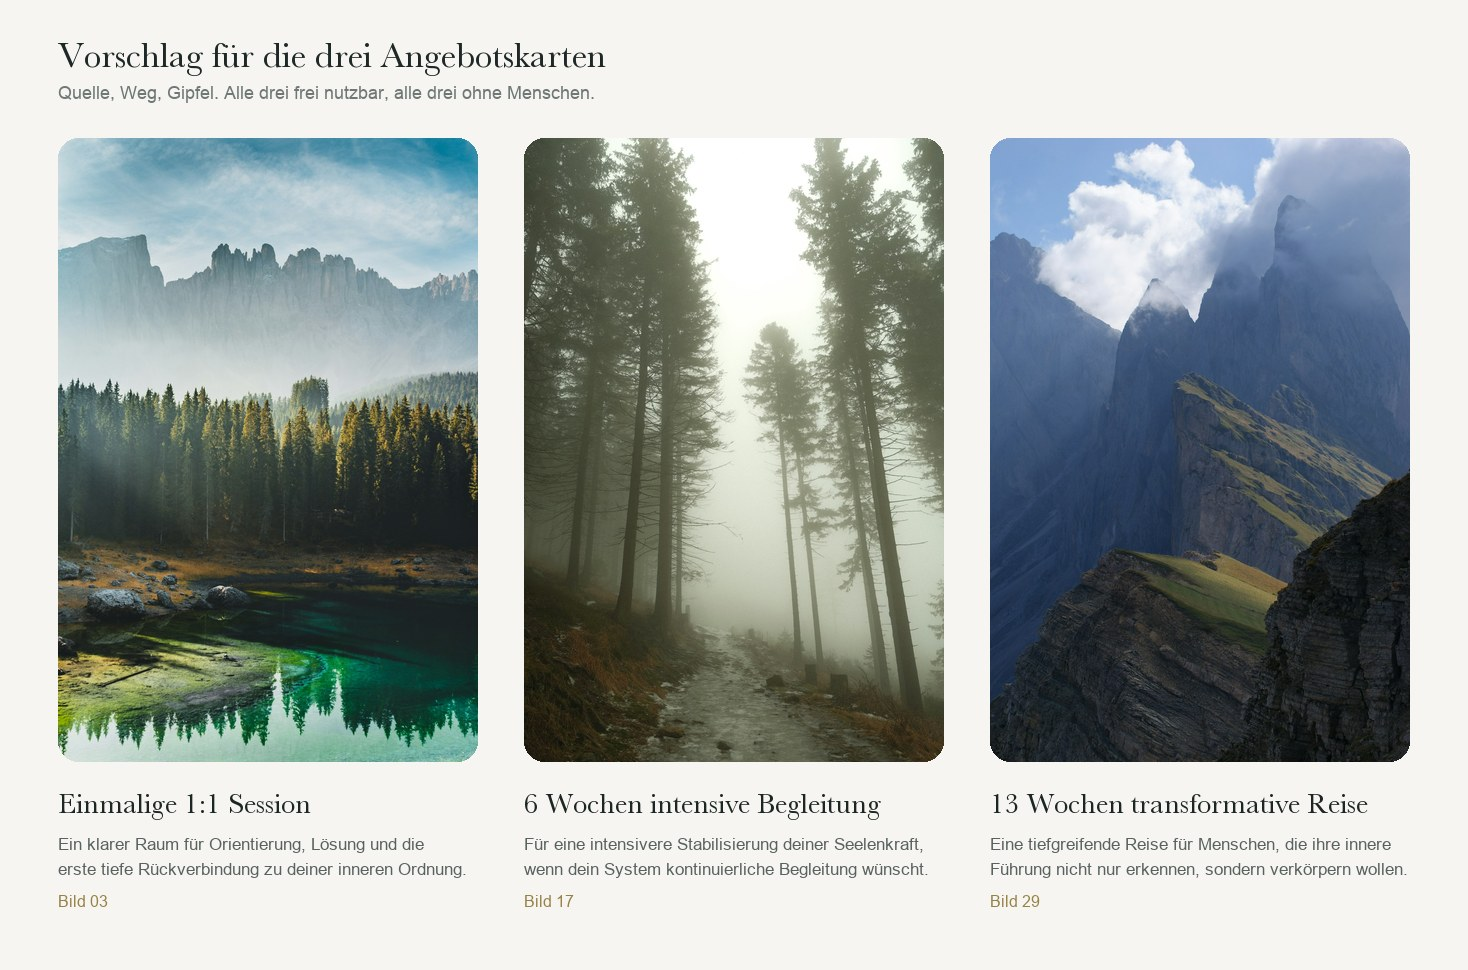
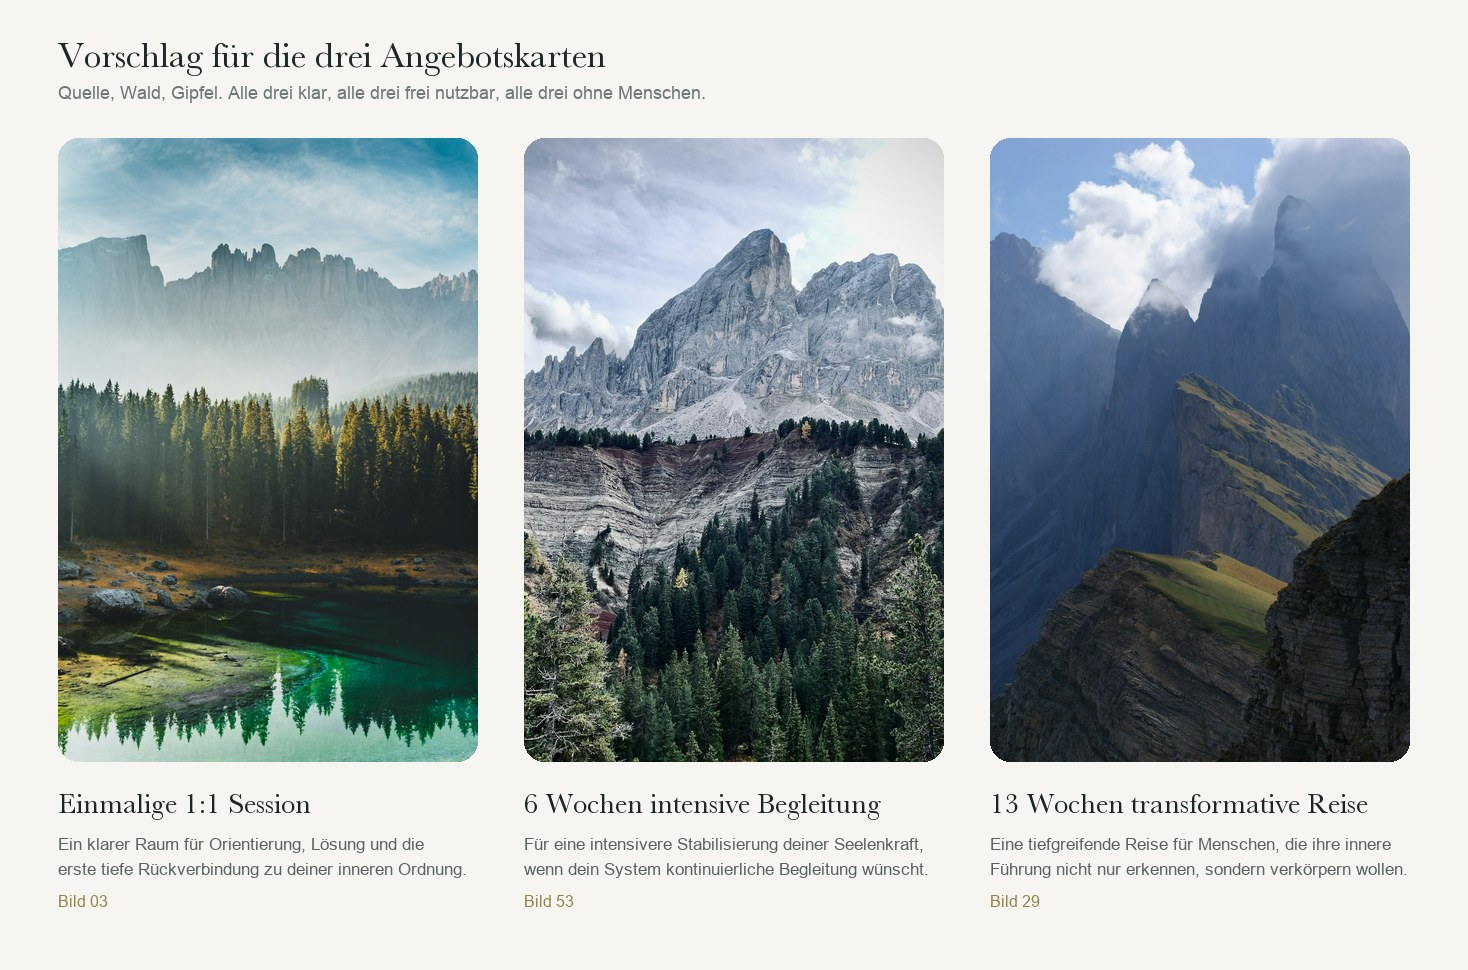
Mittleres Angebotsbild ersetzt: klarer Wald statt Nebelpfad
Agnes fand den nebligen Waldpfad zu unklar, zu Recht: Der Nebel
verschluckt das halbe Bild. Achtzehn weitere Kandidaten gesucht, alle
frei und ohne Menschen, die Sammlung steht jetzt bei 57 Bildern.

Neuer Vorschlag für die sechs Wochen: Bild 53, dunkler Nadelwald, der
den Hang hinaufsteigt, darüber die geschichtete Felswand des Gipfels.
Drei Ebenen übereinander, klar durchgezeichnet, kein Nebel, kein
unscharfer Vordergrund.

Die Reihe lautet damit Quelle, Wald, Gipfel: Karersee, Bergwald unter
der Felswand, Seceda-Grat.

Changed region(s): [[0.092, 0.0928, 0.6437, 0.8041]]

diff --git a/Bilder Ideen Angebote/LIESMICH.md b/Bilder Ideen Angebote/LIESMICH.md
@@ -1,6 +1,6 @@
 # Bildauswahl für die drei Angebote
 
-Neununddreißig Vorschläge, gesucht in den Tiroler und Südtiroler Alpen,
+Siebenundfünfzig Vorschläge, gesucht in den Tiroler und Südtiroler Alpen,
 geordnet nach den drei Programmen. Alle liegen als Datei in den
 Unterordnern, im Kartenformat 2 zu 3.
 
@@ -17,7 +17,7 @@ Alle Bilder stammen von Unsplash. Zwei Arten sind darunter:
   Wasserzeichen quer über das Bild. Es verschwindet erst mit dem Kauf.
   Sie sind also nur als Vorschau zu verstehen.
 
-Von 39 Bildern sind **31 frei** und **8 kostenpflichtig**.
+Von 57 Bildern sind **49 frei** und **8 kostenpflichtig**.
 
 ## Die Übersichtsblätter
 
@@ -28,31 +28,38 @@ entspricht der Nummer im Dateinamen und in der Liste unten.
 
 ## Was ich vorschlagen würde
 
-Die drei Programme steigern sich, und die Bilder sollten das mittragen:
+Die drei Programme steigern sich, und die Bilder sollten das mittragen.
+Quelle, Wald, Gipfel:
 
 1. **Einzelsession, Bild 3**: der Karersee mit dem Latemar. Klares,
    tiefes Wasser, der Wald spiegelt sich darin. Ein Ort, an dem etwas
    sichtbar wird. Das passt zur einmaligen Rückverbindung.
-2. **Sechs Wochen, Bild 17**: ein Pfad, der zwischen hohen Stämmen in
-   den Nebel führt. Der Weg ist begonnen, das Ziel noch nicht zu sehen.
-   Das ist die begleitete Strecke.
+2. **Sechs Wochen, Bild 53**: dunkler Nadelwald, der den Hang
+   hinaufsteigt, darüber die geschichtete Felswand des Gipfels. Drei
+   Ebenen übereinander, klar durchgezeichnet. Das ist das Wachsen über
+   Wochen, mit dem Ziel schon sichtbar.
 3. **Dreizehn Wochen, Bild 29**: der Grat der Seceda, die Felsnadel im
    Licht, Wolken ziehen darüber. Der Gipfel, die Weite, das
    Angekommensein. Das trägt den höchsten Preis, und es ist
    nachweislich Südtirol.
 
-Ausweichbilder, falls eines davon nicht gefällt: 8 statt 3 (See mit
-Schilf im Vordergrund), 28 statt 17 (Weg zum Rosengarten), 35 statt 29
-(Bergrücken über dem Wolkenmeer im ersten Licht).
+Alle drei sind frei nutzbar, alle drei ohne Menschen, alle drei klar
+durchgezeichnet, keines mit Nebelschleier über dem Hauptmotiv oder
+unscharfem Vordergrund.
 
-**Wichtig zu Bild 30**: Es sieht auf den ersten Blick aus wie eine
-kleine Hütte auf dem Grat, und die Beschreibung bei Unsplash sagt das
-auch. Vergrößert man die Stelle, steht dort ein Mensch mit
-ausgebreiteten Armen in gelber Jacke. Weil du Bilder ohne Menschen
-wolltest, ist es aus der Empfehlung genommen. Es bleibt in der Liste,
-falls es dir trotzdem gefällt.
+Ausweichbilder: 8 statt 3 (See mit Schilf), 27 statt 53 (Gebirgsbach im
+Herbstwald mit Gipfel dahinter) oder 21 statt 53 (klarer Waldweg
+zwischen Lärchen), 35 statt 29 (Bergrücken über dem Wolkenmeer).
 
-Alle drei sind frei nutzbar, keines kostenpflichtig.
+**Zurückgezogen**: Bild 17, der neblige Waldpfad, war zuerst
+vorgeschlagen. Agnes findet ihn zu unklar, das ist berechtigt: Der Nebel
+verschluckt das halbe Bild. Bild 28 scheidet aus demselben Grund aus, es
+hat einen unscharfen Zweig im Vordergrund.
+
+**Wichtig zu Bild 30**: Es sieht aus wie eine kleine Hütte auf dem Grat,
+und die Beschreibung bei Unsplash sagt das auch. Vergrößert man die
+Stelle, steht dort ein Mensch mit ausgebreiteten Armen in gelber Jacke.
+Deshalb nicht empfohlen.
 
 ## Die vollständige Liste
 
@@ -82,7 +89,7 @@ Alle drei sind frei nutzbar, keines kostenpflichtig.
 |---|---|---|---|---|
 | 15 | Berge über ländlicher Landschaft | Sofia Gerasimenko | **kostenpflichtig** | [ansehen](https://unsplash.com/photos/FT4mC7Crd7w) |
 | 16 | Gebirgskette mit grünen Tälern, Sellagruppe, Dolomiten | waa towaw | frei | [ansehen](https://unsplash.com/photos/3Ftwkr3IOHI) |
-| 17 | Nebliger Pfad im Wald **(erste Wahl)** | Artem Stoliar | frei | [ansehen](https://unsplash.com/photos/7xjJPLG-xTw) |
+| 17 | Nebliger Pfad im Wald, zu unklar | Artem Stoliar | frei | [ansehen](https://unsplash.com/photos/7xjJPLG-xTw) |
 | 18 | Hügel mit Gras und Blumen | Hans | **kostenpflichtig** | [ansehen](https://unsplash.com/photos/1pndCtkqmiQ) |
 | 19 | Silhouette des Berges bei Sonnenuntergang | Alex Rainer | frei | [ansehen](https://unsplash.com/photos/tBSY1FgEHkQ) |
 | 20 | Schneebedeckter Berg | Daniel J. Schwarz | frei | [ansehen](https://unsplash.com/photos/BImL-nrv8lw) |
@@ -93,7 +100,7 @@ Alle drei sind frei nutzbar, keines kostenpflichtig.
 | 25 | Berg neben dem Gewässer | Daniel Seßler | frei | [ansehen](https://unsplash.com/photos/tBPVJo8Lfv8) |
 | 26 | Straße an Kiefern vorbei | Daniel J. Schwarz | frei | [ansehen](https://unsplash.com/photos/F8QDoWjZnsA) |
 | 27 | Kiefern vor Bergen | Daniel Seßler | frei | [ansehen](https://unsplash.com/photos/k2ZRhUUbpVc) |
-| 28 | Weg zwischen Bäumen am Berg, Rosengarten oder Latemar, Dolomiten **(Ausweichbild)** | daniel plan | frei | [ansehen](https://unsplash.com/photos/WS21-ExEDE8) |
+| 28 | Weg zwischen Bäumen am Berg, unscharfer Vordergrund | daniel plan | frei | [ansehen](https://unsplash.com/photos/WS21-ExEDE8) |
 
 ### 3 Dreizehn Wochen
 
@@ -110,6 +117,30 @@ Alle drei sind frei nutzbar, keines kostenpflichtig.
 | 37 | Holzhütten unter zerklüfteten Gipfeln, Seiser Alm mit Langkofel, Südtirol | Anjith Paul | frei | [ansehen](https://unsplash.com/photos/BVzKm9EAkoE) |
 | 38 | Schneebedeckter Berg | Alexandros Giannakakis | **kostenpflichtig** | [ansehen](https://unsplash.com/photos/8hAtswe7xR8) |
 | 39 | Blick von einem Gipfel | Gantas Vaičiulėnas | **kostenpflichtig** | [ansehen](https://unsplash.com/photos/XlIpZd0IySU) |
+
+
+### Später nachgeholt, alle für die sechs Wochen, alle frei
+
+| Nr | Motiv | Urheberin oder Urheber | Quelle |
+|---|---|---|---|
+| 40 | Sonnenuntergang über den Bergen | Davide Pietralunga | [ansehen](https://unsplash.com/photos/ie687sFO69k) |
+| 41 | Sonne durch Wolken in den Bergen | Reegan Fraser | [ansehen](https://unsplash.com/photos/f9V_YRDO7TY) |
+| 42 | Holzzaun am Hang | Patrick Baum | [ansehen](https://unsplash.com/photos/8xyPe4nTDls) |
+| 43 | Grasfeld mit Berg im Hintergrund | Daniel J. Schwarz | [ansehen](https://unsplash.com/photos/jd5KhMiQ5qo) |
+| 44 | Berg unter weissem Himmel | Daniel J. Schwarz | [ansehen](https://unsplash.com/photos/EswLMnbV7GU) |
+| 45 | Unbefestigte Strasse im Grasfeld | Tobias Reich | [ansehen](https://unsplash.com/photos/9BKSdvsRSuA) |
+| 46 | Fingerhut am Hang vor bewaldeten Bergen | Veronica Dudarev | [ansehen](https://unsplash.com/photos/u3Ciet2TH5g) |
+| 47 | Berghütte mit Blick auf Gipfel, Dolomiten | ekaterina domracheva | [ansehen](https://unsplash.com/photos/uTGPrF2uGDc) |
+| 48 | Grasfeld vor schneebedecktem Berg | Tyler Scheviak | [ansehen](https://unsplash.com/photos/-Edg-zf49O4) |
+| 49 | Tal mit Bäumen und Bergen | Kate Banar | [ansehen](https://unsplash.com/photos/bkJD-k9jxR4) |
+| 50 | Kirche vor Gebirgszügen | Marc St | [ansehen](https://unsplash.com/photos/q31NEozbK3c) |
+| 51 | Berge unter weissen Wolken | Hugo Kruip | [ansehen](https://unsplash.com/photos/3nM-GV4unJQ) |
+| 52 | Haus am felsigen Seeufer | Ilaria Ghidini | [ansehen](https://unsplash.com/photos/dYhNMaWFRys) |
+| 53 | Gebirgskette mit Bäumen **(erste Wahl)** | Elisa Kerschbaumer | [ansehen](https://unsplash.com/photos/NsLO5m_SUS0) |
+| 54 | Kiefern mit schneebedecktem Berg | daniel plan | [ansehen](https://unsplash.com/photos/7nRFxcxzebo) |
+| 55 | Hütte in Bergwaldlandschaft | Dean Zhang | [ansehen](https://unsplash.com/photos/5P0fjdVVgNQ) |
+| 56 | Hoher weisser Berg | Quaritsch Photography | [ansehen](https://unsplash.com/photos/2ulOMTUK0Ig) |
+| 57 | Gewässer über grün belaubten Bäumen | Marc St | [ansehen](https://unsplash.com/photos/0NGQmnuDnJ0) |
 
 ## Die Kartenansicht
 
